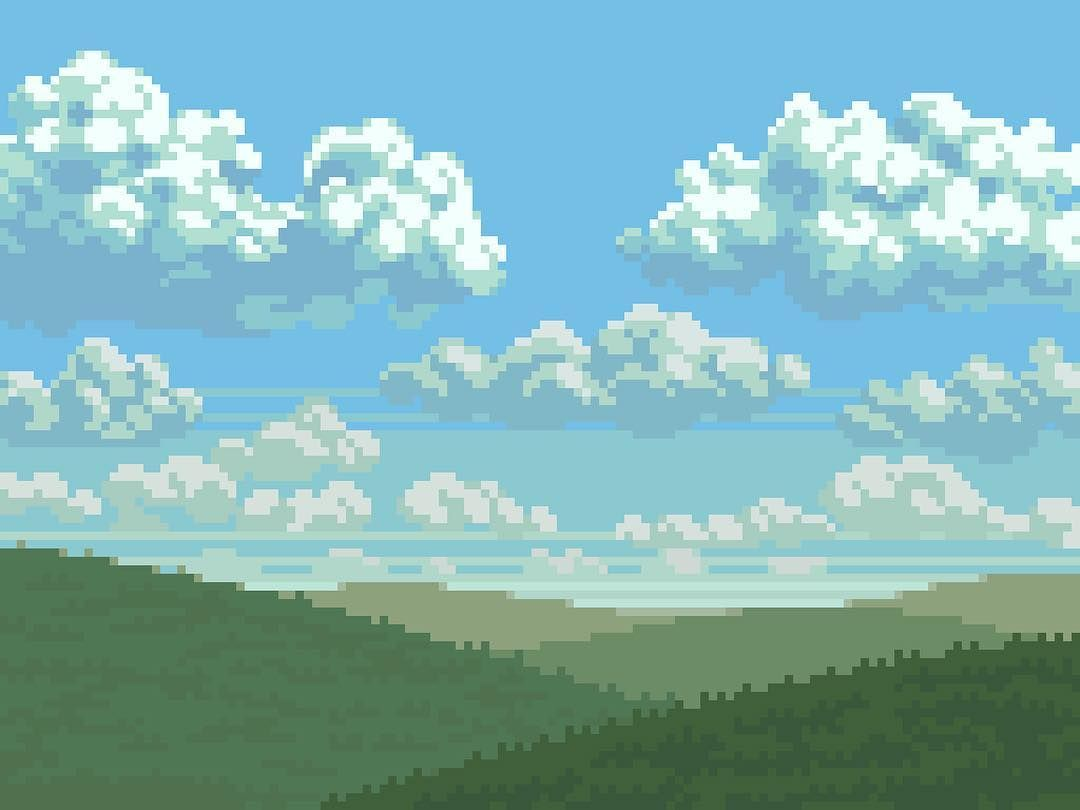
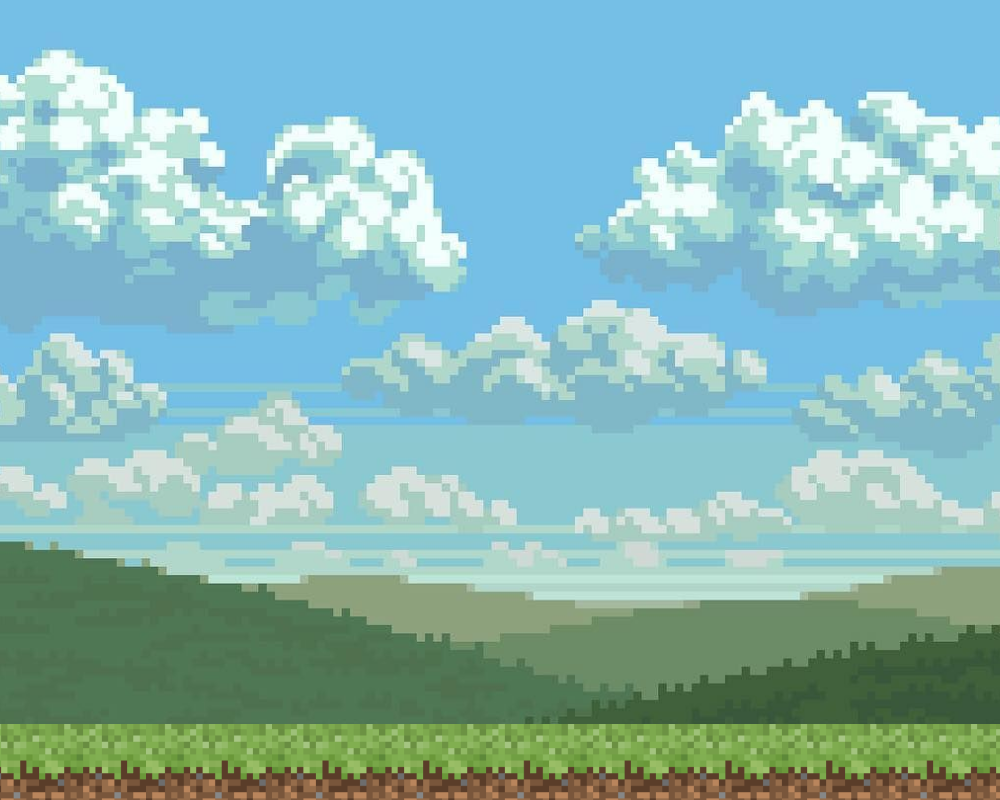
add walls and hero

diff --git a/src/walls/wall.h b/src/walls/wall.h
@@ -1,0 +1,78 @@
+#pragma once
+
+struct Wall
+{
+    const int WIDTH = 20;
+    int size;
+    char type;
+    sf::Sprite img;
+    sf::Texture texture;
+    sf::Vector2f position;
+};
+
+void initWallsTexture(sf::Texture texture[], int wallsSize[], int LEN_WALLS_ARRAY)
+{
+    for (int i = 0; i < LEN_WALLS_ARRAY; i++)
+    {
+        if (!texture[i].loadFromFile("../images/walls/" + std::to_string(wallsSize[i]) + "_wall.png"))
+        {
+            // error...
+            std::cout << "Fail to load image" << std::endl;
+            return;
+        }
+    }
+}
+
+void setWallsTexture(sf::Sprite walls[], sf::Texture texture[], int LEN_WALLS_ARRAY)
+{
+    for (int i = 0; i < LEN_WALLS_ARRAY; i++)
+    {
+        walls[i].setTexture(texture[i]);
+    }
+}
+
+void setWallsPosition(sf::Sprite walls[], sf::Vector2f wallsPosition[], int LEN_WALLS_ARRAY)
+{
+    for (int i = 0; i < LEN_WALLS_ARRAY; i++)
+    {
+        walls[i].setPosition(wallsPosition[i]);
+    }
+}
+
+void drawWalls(sf::RenderWindow &window, sf::Sprite walls[], int LEN_WALLS_ARRAY)
+{
+    for (int i = 0; i < LEN_WALLS_ARRAY; i++)
+    {
+        window.draw(walls[i]);
+    }
+}
+
+void drawWalls(sf::RenderWindow &window)
+{
+    const int LEN_WALLS_ARRAY = 2;
+    int wallsSize[LEN_WALLS_ARRAY]{10, 10};
+    sf::Vector2f wallsPosition[LEN_WALLS_ARRAY]{
+        {345, 0}, {635, 0}};
+    sf::Sprite walls[LEN_WALLS_ARRAY];
+    sf::Texture texture[LEN_WALLS_ARRAY];
+    initWallsTexture(texture, wallsSize, LEN_WALLS_ARRAY);
+    setWallsTexture(walls, texture, LEN_WALLS_ARRAY);
+    setWallsPosition(walls, wallsPosition, LEN_WALLS_ARRAY);
+    drawWalls(window, walls, LEN_WALLS_ARRAY);
+}
+
+void initWalls(Wall walls[], int countWalls, sf::Vector2f wallsPositions[], char wallsTypes[], int wallsSize[])
+{
+    for (int i = 0; i < countWalls; i++)
+    {
+        if (!walls[i].texture.loadFromFile("../images/walls/" + std::to_string(wallsSize[i]) + "_wall.png"))
+        {
+            // error...
+            std::cout << "Fail to load image" << std::endl;
+            return;
+        }
+        walls[i].img.setTexture(walls[i].texture);
+        walls[i].position = wallsPositions[i];
+        walls[i].img.setPosition(wallsPositions[i]);
+    }
+}

diff --git a/src/main.cpp b/src/main.cpp
@@ -2,6 +2,17 @@
 #include <cmath>
 #include <iostream>
 #include "map/map.h"
+#include "hero/hero.h"
+#include "walls/wall.h"
+#include "level/level.h"
+
+void initStructures(Map &map, Ground &ground, Hero &hero, Level levels[])
+{
+    initMap(map);
+    initGround(ground);
+    initHero(hero);
+    initLevels(levels);
+}
 
 void pollEvents(sf::RenderWindow &window)
 {
@@ -13,16 +24,29 @@ void pollEvents(sf::RenderWindow &window)
         case sf::Event::Closed:
             window.close();
             break;
+        case sf::Event::KeyReleased:
+            if (event.key.code == sf::Keyboard::Space)
+            {
+            }
+            break;
+        case sf::Event::KeyPressed:
+            if (event.key.code == sf::Keyboard::Space)
+            {
+            }
+            break;
         default:
             break;
         }
     }
 }
 
-void redrawFrame(sf::RenderWindow &window)
+void redrawFrame(sf::RenderWindow &window, Map map, Ground ground, Hero hero)
 {
     window.clear();
-    renderMap(window);
+    window.draw(map.img);
+    drawWalls(window);
+    window.draw(ground.img);
+    window.draw(hero.img);
     window.display();
 }
 
@@ -32,6 +56,10 @@ int main()
     constexpr unsigned WINDOW_HEIGHT = 800;
 
     sf::Clock clock;
+    Map map;
+    Ground ground;
+    Hero hero;
+    Level levels[];
 
     sf::ContextSettings settings;
     settings.antialiasingLevel = 8;
@@ -39,9 +67,11 @@ int main()
         sf::VideoMode({WINDOW_WIDTH, WINDOW_HEIGHT}),
         "Wall Kicker", sf::Style::Default, settings);
 
+    initStructures(map, ground, hero, levels);
+
     while (window.isOpen())
     {
         pollEvents(window);
-        redrawFrame(window);
+        redrawFrame(window, map, ground, hero);
     }
 }

diff --git a/src/map/map.h b/src/map/map.h
@@ -1,8 +1,21 @@
 #pragma once
 
-void initTexture(sf::Texture &texture)
+struct Map
 {
-    if (!texture.loadFromFile("../images/map/map.png"))
+    sf::Texture texture;
+    sf::Sprite img;
+};
+
+struct Ground
+{
+    sf::Texture texture;
+    sf::Sprite img;
+    sf::Vector2f position;
+};
+
+void initMapTexture(sf::Texture &texture)
+{
+    if (!texture.loadFromFile("../images/map/background.png"))
     {
         // error...
         std::cout << "Fail to load image" << std::endl;
@@ -10,11 +23,26 @@ void initTexture(sf::Texture &texture)
     }
 }
 
-void renderMap(sf::RenderWindow &window)
+void initGroundTexture(sf::Texture &texture)
 {
-    sf::Sprite map;
-    sf::Texture texture;
-    initTexture(texture);
-    map.setTexture(texture);
-    window.draw(map);
+    if (!texture.loadFromFile("../images/map/ground.png"))
+    {
+        // error...
+        std::cout << "Fail to load image" << std::endl;
+        return;
+    }
+}
+
+initMap(Map &map)
+{
+    initMapTexture(map.texture);
+    map.img.setTexture(map.texture);
+}
+
+initGround(Ground &ground)
+{
+    ground.position = {0, 724};
+    initGroundTexture(ground.texture);
+    ground.img.setTexture(ground.texture);
+    ground.img.setPosition(ground.position);
 }

diff --git a/src/hero/hero.h b/src/hero/hero.h
@@ -1,0 +1,43 @@
+#pragma once
+
+struct Hero
+{
+    int jumpState;
+    char direction;
+    sf::Sprite img;
+    sf::Texture texture;
+    sf::Vector2f position;
+};
+
+void initHeroTexture(sf::Texture &texture)
+{
+    if (!texture.loadFromFile("../images/hero/hero_stand.png"))
+    {
+        // error...
+        std::cout << "Fail to load image" << std::endl;
+        return;
+    }
+}
+
+void updateHeroPosition(sf::Sprite &hero, int jumpState)
+{
+    if (jumpState == 1)
+    {
+        std::cout << "jumped" << std::endl;
+        sf::Vector2f heroPosition = hero.getPosition();
+        heroPosition.x += 1;
+        heroPosition.y += 1;
+        hero.setPosition(heroPosition);
+    }
+    // else
+    //     hero.setPosition({467, 611});
+}
+
+void initHero(Hero &hero)
+{
+    hero.direction = 'l';
+    hero.position = {473, 633};
+    initHeroTexture(hero.texture);
+    hero.img.setTexture(hero.texture);
+    hero.img.setPosition(hero.position);
+}

diff --git a/src/level/level.h b/src/level/level.h
@@ -1,0 +1,21 @@
+#pragma once
+
+struct Level
+{
+    Wall startCheckpoint;
+    Wall endCheckpoint;
+    char startCheckpointDir;
+    char endCheckpointDir;
+    Wall walls[];
+};
+
+void initLevels(Level levels[])
+{
+    Level lvl1;
+    const int LVL1_COUNT_WALLS = 2;
+    const sf::Vector2f wallsPosition[LVL1_COUNT_WALLS]{{345, 0}, {635, 0}};
+    const char wallsTypes[LVL1_COUNT_WALLS]{'_', '_'};
+    const int wallsSize[LVL1_COUNT_WALLS]{10, 10};
+    levels[0] = lvl1;
+    initWalls(lvl1.walls, LVL1_COUNT_WALLS, wallsPosition, wallsTypes, wallsSize);
+}
